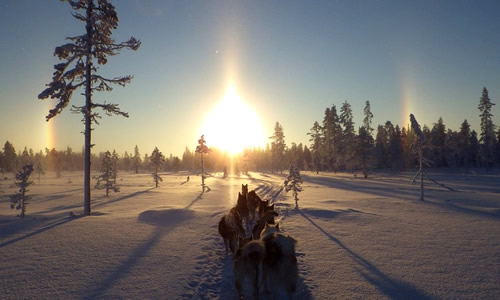
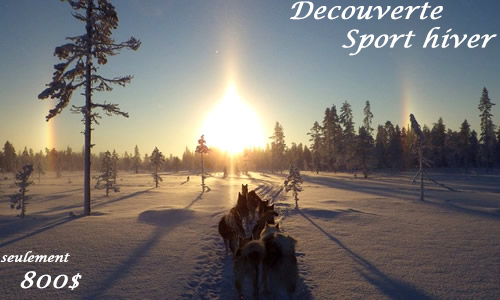
Retouche des redirection + images

Changed region(s): [[0.57, 0.0, 0.99, 0.18], [0.03, 0.9, 0.18, 0.96], [0.0, 0.84, 0.15, 0.87]]

diff --git a/details.html b/details.html
@@ -22,15 +22,13 @@
         <div id="menu_principal">
             <ul class="menu"><!--
             -->
-                <li><a id="menu_home" href="#"><p>Home</p></a></li><!--
+                <li><a id="menu_home" href="index.html"><p>Home</p></a></li><!--
             -->
-                <li><a id="menu_offres" href="#"><p>Nos offres</p></a></li><!--
+                <li><a id="menu_offres" href="catalogue.html"><p>Nos offres</p></a></li><!--
             -->
-                <li><a id="menu_croissieres" href="#"><p>Croisières</p></a></li><!--
+                <li><a id="menu_croissieres" href="details.html"><p>Détails</p></a></li><!--
             -->
-                <li><a id="menu_vols" href="#"><p>Vols</p></a></li><!--
-            -->
-                <li><a id="menu_hotel" href="#"><p>Contact</p></a></li><!--
+                <li><a id="menu_hotel" href="formulaire.html"><p>Contact</p></a></li><!--
             -->
             </ul>
         </div>

diff --git a/catalogue.html b/catalogue.html
@@ -28,9 +28,7 @@
             -->
             <li><a id="menu_offres" href="catalogue.html"><p>Catalogue</p></a></li><!--
             -->
-            <li><a id="menu_croissieres" href="#"><p>Croisières</p></a></li><!--
-            -->
-            <li><a id="menu_vols" href="#"><p>Vols</p></a></li><!--
+            <li><a id="menu_croissieres" href="details.html"><p>Détails</p></a></li><!--
             -->
             <li><a id="menu_hotel" href="formulaire.html"><p>Formulaire</p></a></li><!--
             -->

diff --git a/formulaire.html b/formulaire.html
@@ -32,9 +32,7 @@
             -->
             <li><a id="menu_offres" href="catalogue.html"><p>Catalogue</p></a></li><!--
             -->
-            <li><a id="menu_croissieres" href="#"><p>Croisières</p></a></li><!--
-            -->
-            <li><a id="menu_vols" href="#"><p>Vols</p></a></li><!--
+            <li><a id="menu_croissieres" href="details.html"><p>Détails</p></a></li><!--
             -->
             <li><a id="menu_hotel" href="formulaire.html"><p>Formulaire</p></a></li><!--
             -->

diff --git a/index.html b/index.html
@@ -27,9 +27,7 @@
             -->
             <li><a id="menu_offres" href="catalogue.html"><p>Catalogue</p></a></li><!--
             -->
-            <li><a id="menu_croissieres" href="#"><p>Croisières</p></a></li><!--
-            -->
-            <li><a id="menu_vols" href="#"><p>Vols</p></a></li><!--
+            <li><a id="menu_croissieres" href="details.html"><p>Détails</p></a></li><!--
             -->
             <li><a id="menu_hotel" href="formulaire.html"><p>Formulaire</p></a></li><!--
             -->
